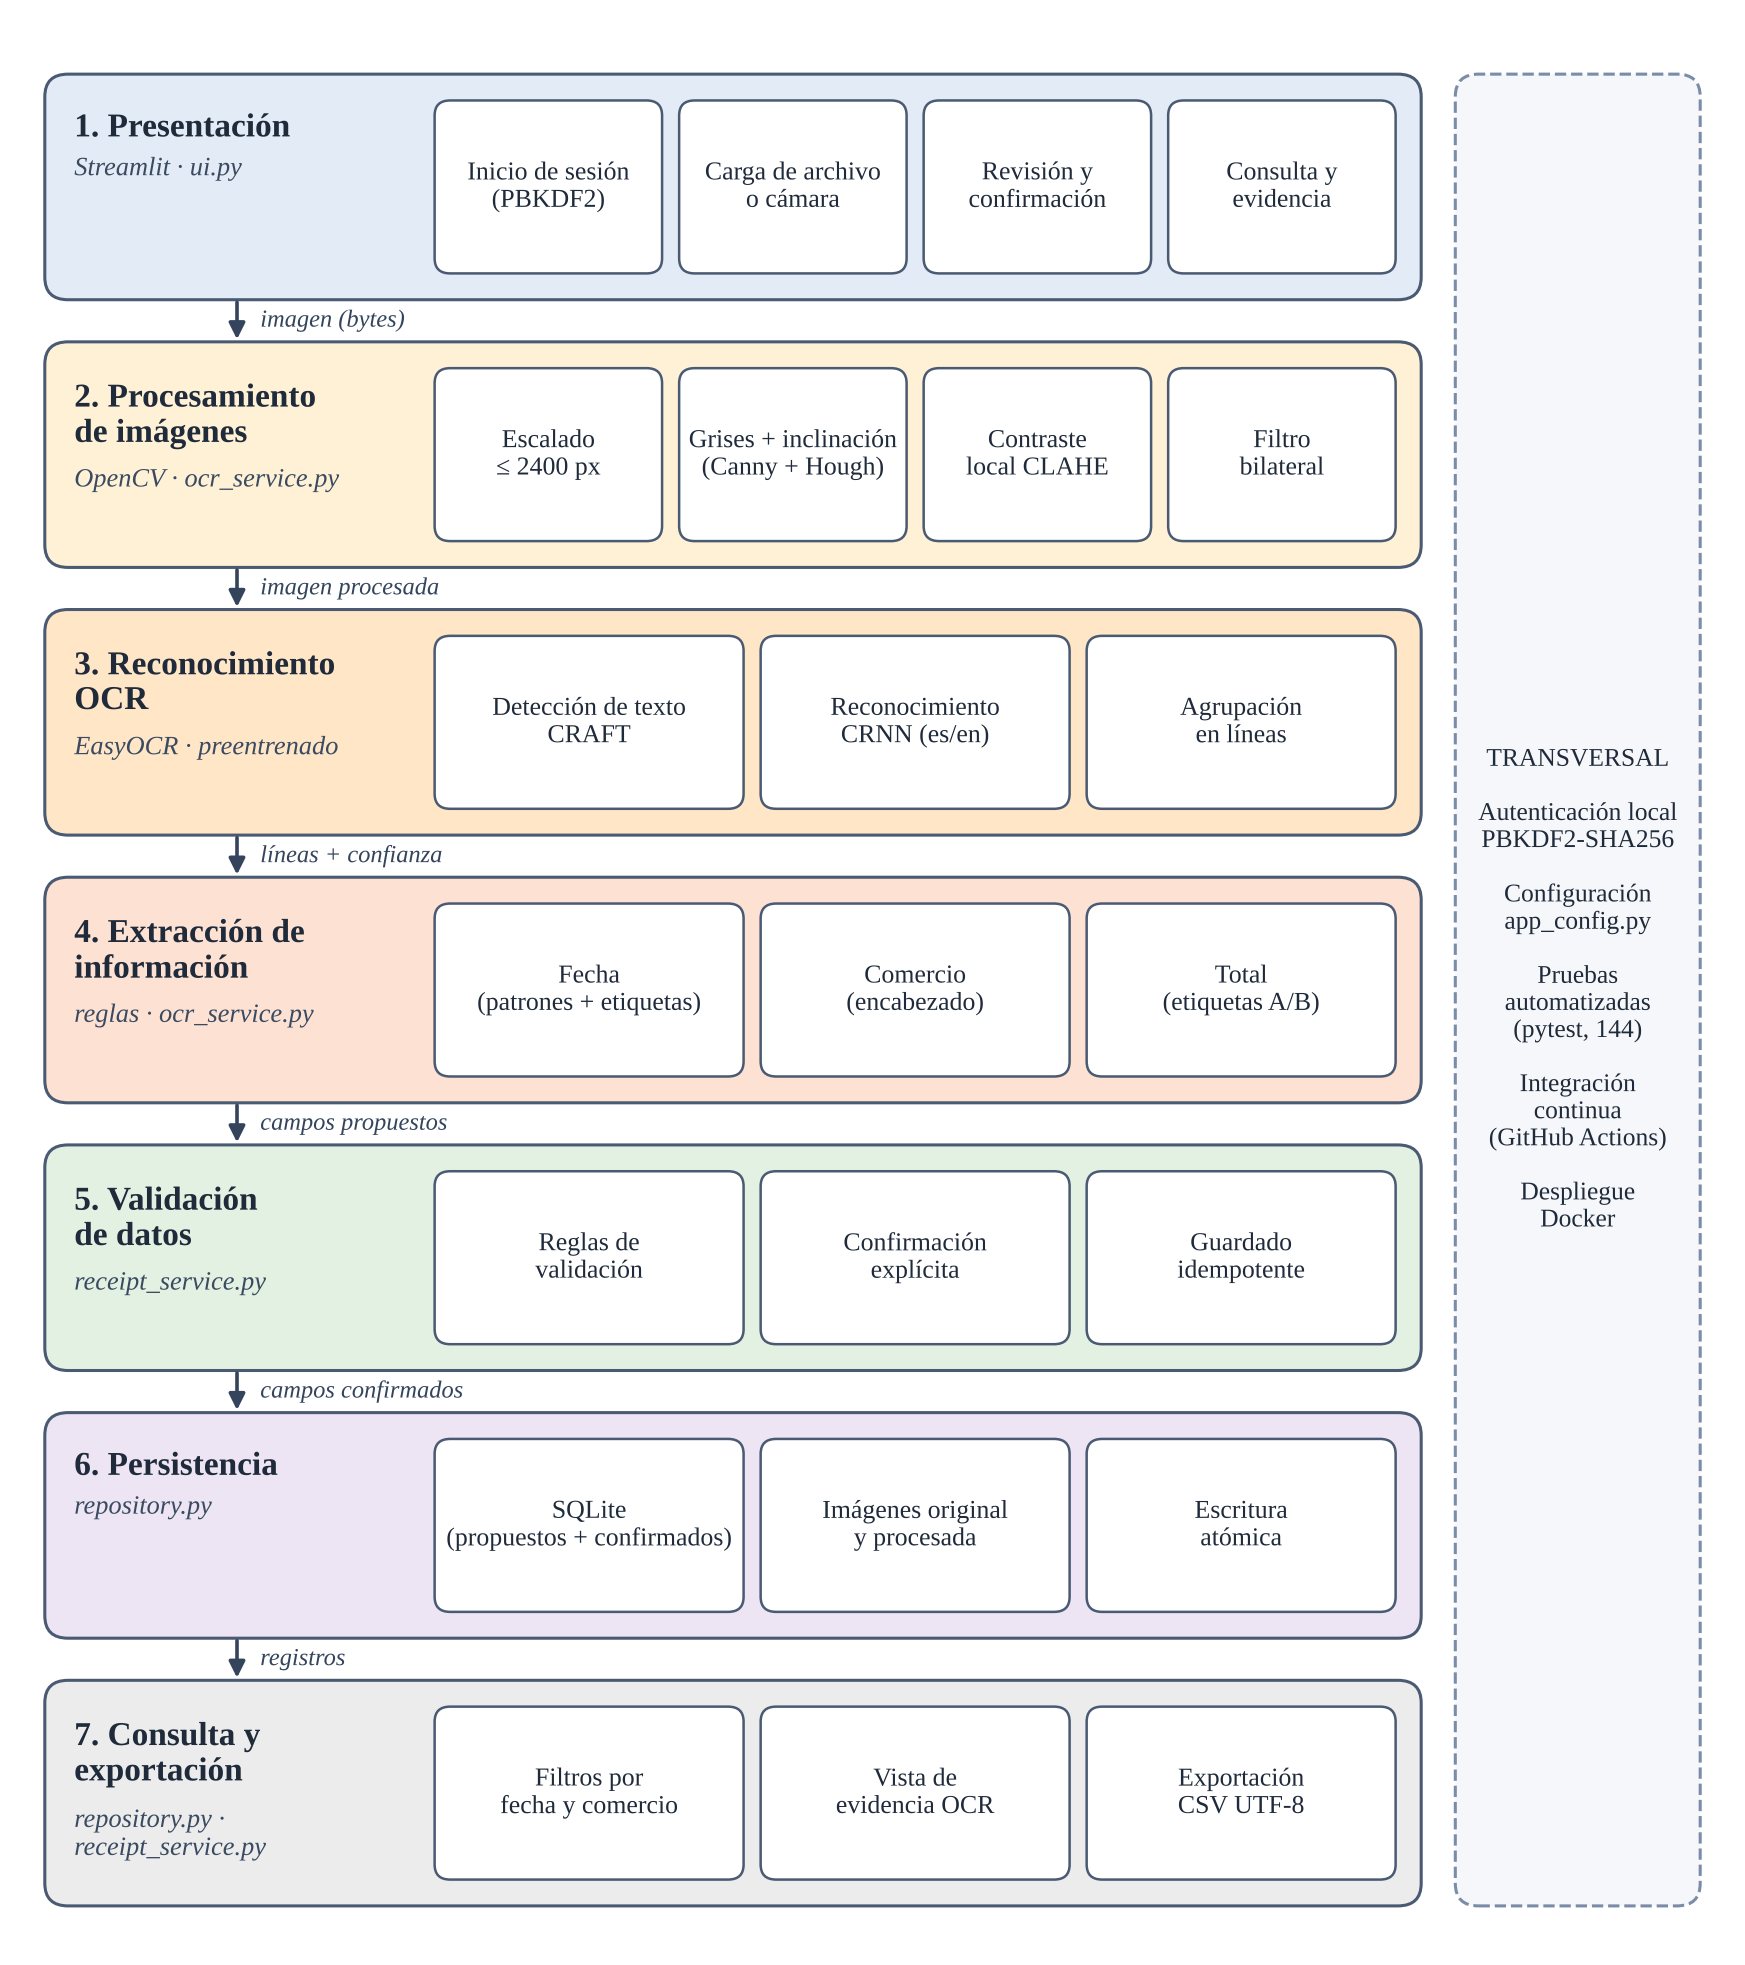
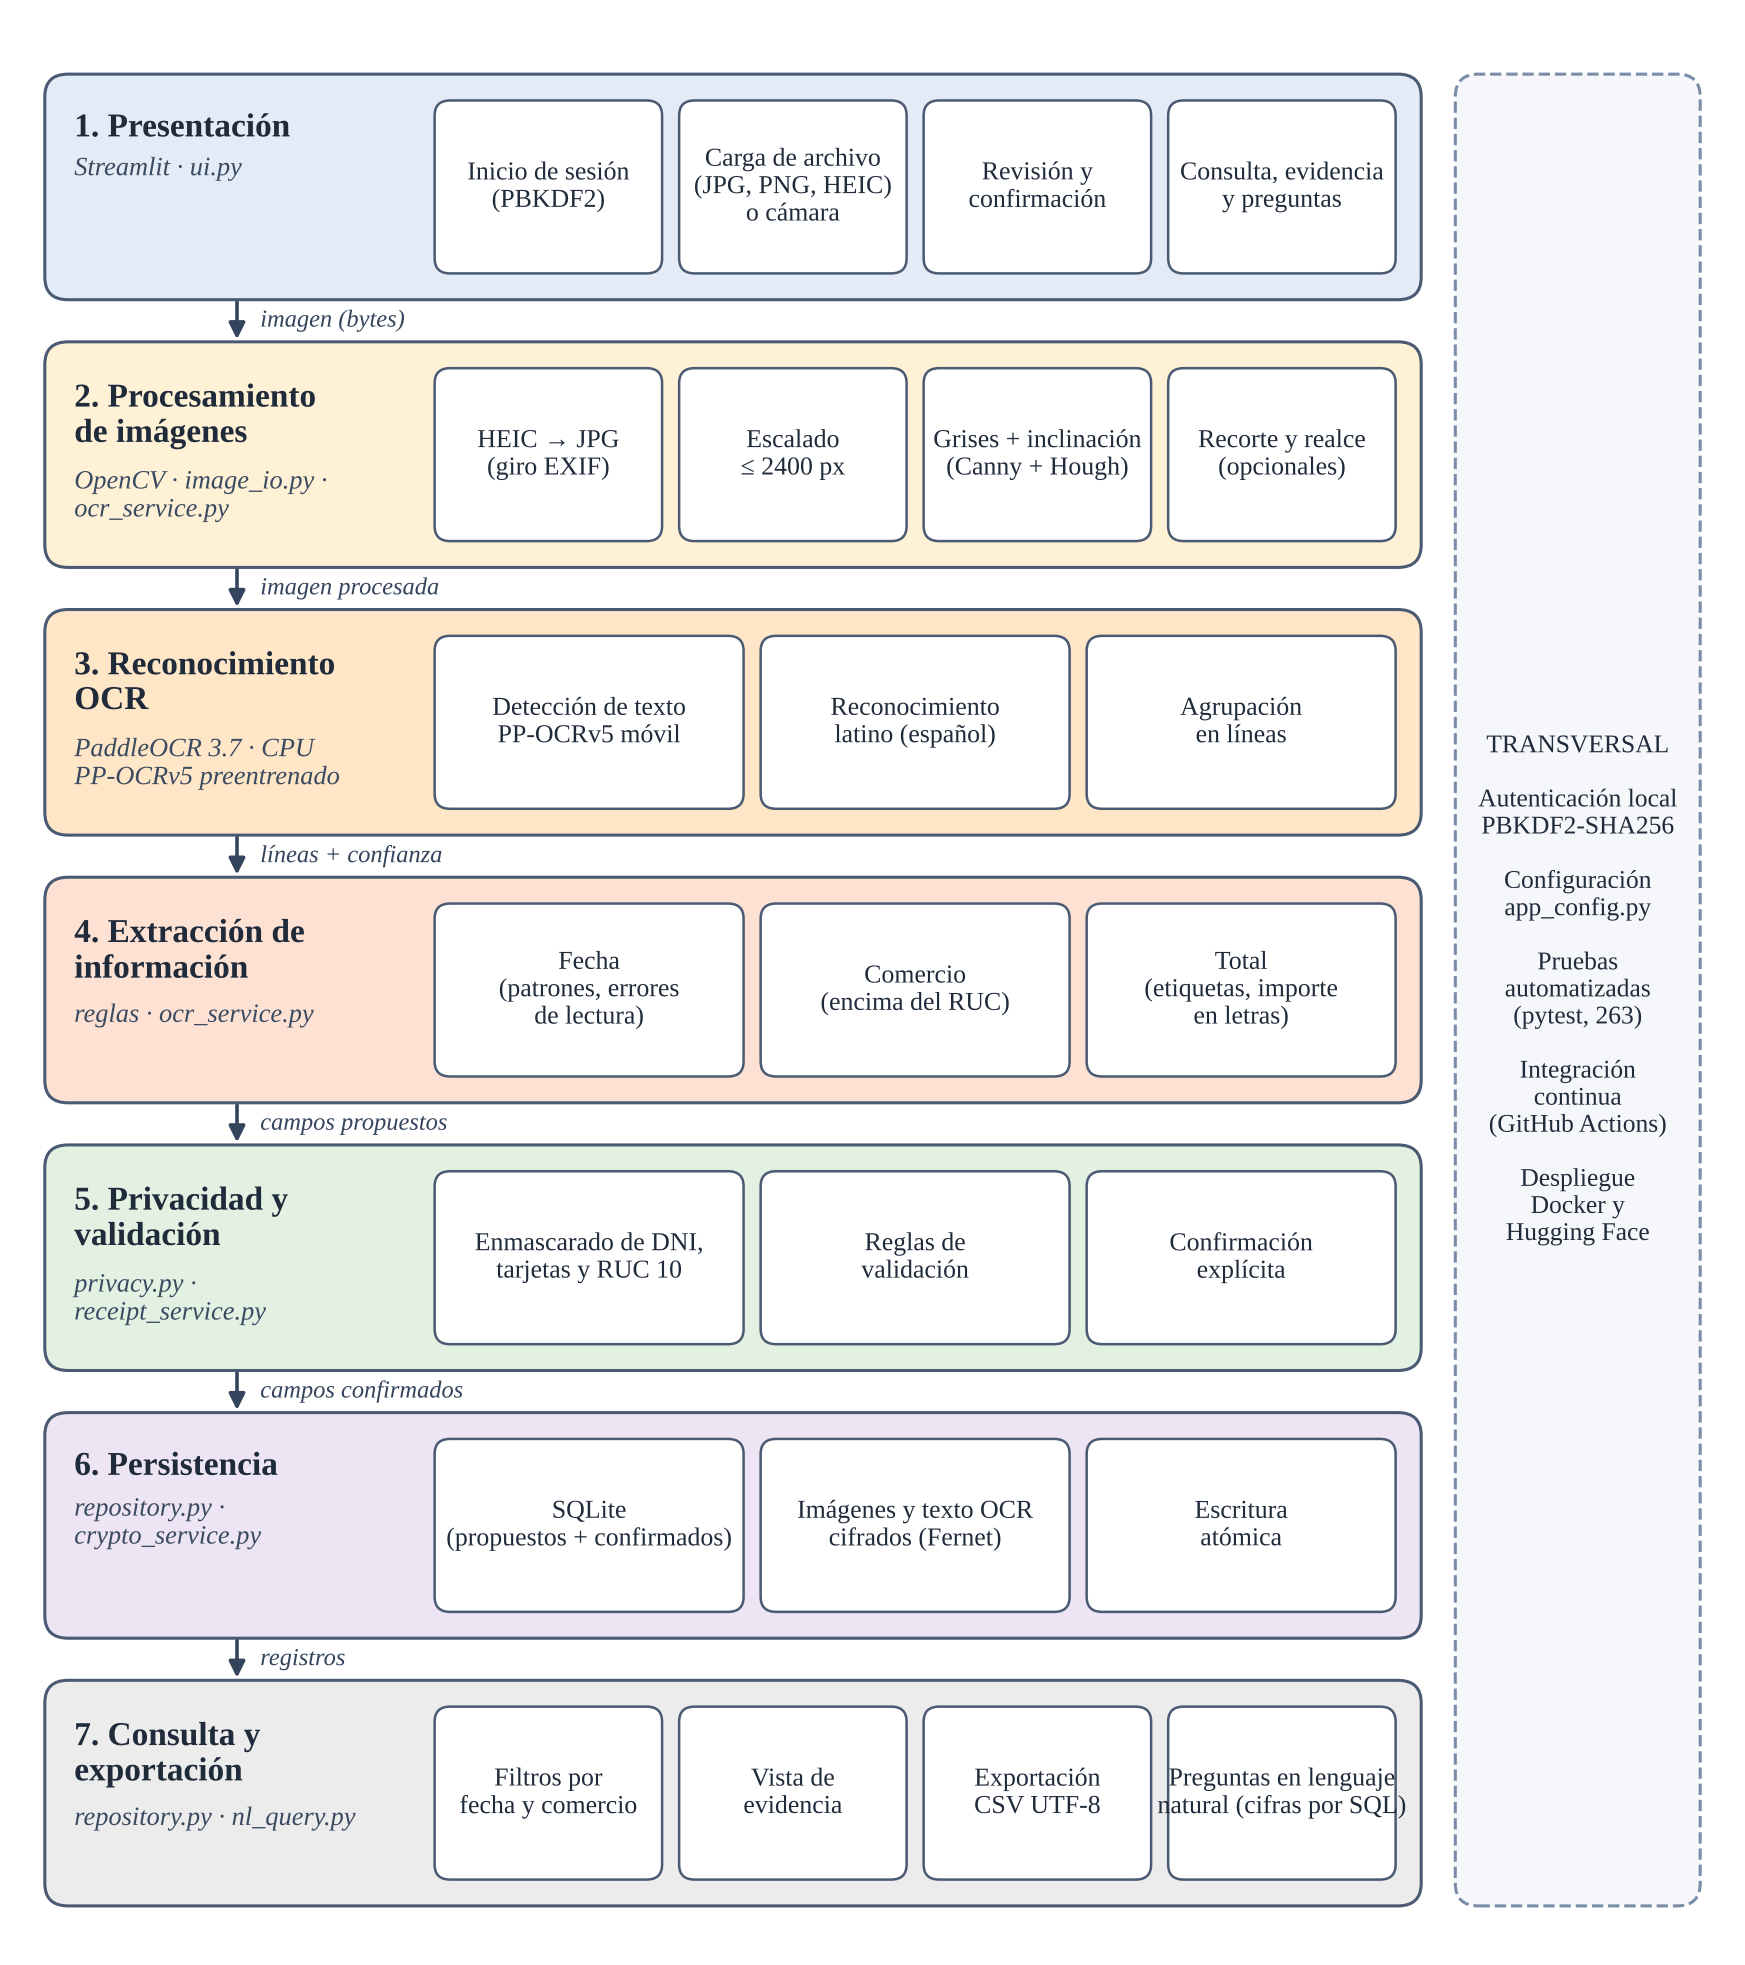
Datos: cinco boletas reales nuevas anonimizadas (R7 a R11); diagramas actualizados a PaddleOCR

diff --git a/experimentos/diagramas/arquitectura.py b/experimentos/diagramas/arquitectura.py
@@ -9,13 +9,13 @@ from matplotlib.patches import FancyArrowPatch, FancyBboxPatch
 
 plt.rcParams["font.family"] = "Liberation Serif"
 CAPAS = [
-    ("1. Presentación", "Streamlit · ui.py", "#E3EBF6", ["Inicio de sesión\n(PBKDF2)", "Carga de archivo\no cámara", "Revisión y\nconfirmación", "Consulta y\nevidencia"]),
-    ("2. Procesamiento\nde imágenes", "OpenCV · ocr_service.py", "#FFF1D6", ["Escalado\n≤ 2400 px", "Grises + inclinación\n(Canny + Hough)", "Contraste\nlocal CLAHE", "Filtro\nbilateral"]),
-    ("3. Reconocimiento\nOCR", "EasyOCR · preentrenado", "#FFE6C7", ["Detección de texto\nCRAFT", "Reconocimiento\nCRNN (es/en)", "Agrupación\nen líneas"]),
-    ("4. Extracción de\ninformación", "reglas · ocr_service.py", "#FDE2D4", ["Fecha\n(patrones + etiquetas)", "Comercio\n(encabezado)", "Total\n(etiquetas A/B)"]),
-    ("5. Validación\nde datos", "receipt_service.py", "#E2F1E2", ["Reglas de\nvalidación", "Confirmación\nexplícita", "Guardado\nidempotente"]),
-    ("6. Persistencia", "repository.py", "#EDE5F4", ["SQLite\n(propuestos + confirmados)", "Imágenes original\ny procesada", "Escritura\natómica"]),
-    ("7. Consulta y\nexportación", "repository.py ·\nreceipt_service.py", "#ECECEC", ["Filtros por\nfecha y comercio", "Vista de\nevidencia OCR", "Exportación\nCSV UTF-8"]),
+    ("1. Presentación", "Streamlit · ui.py", "#E3EBF6", ["Inicio de sesión\n(PBKDF2)", "Carga de archivo\n(JPG, PNG, HEIC)\no cámara", "Revisión y\nconfirmación", "Consulta, evidencia\ny preguntas"]),
+    ("2. Procesamiento\nde imágenes", "OpenCV · image_io.py ·\nocr_service.py", "#FFF1D6", ["HEIC → JPG\n(giro EXIF)", "Escalado\n≤ 2400 px", "Grises + inclinación\n(Canny + Hough)", "Recorte y realce\n(opcionales)"]),
+    ("3. Reconocimiento\nOCR", "PaddleOCR 3.7 · CPU\nPP-OCRv5 preentrenado", "#FFE6C7", ["Detección de texto\nPP-OCRv5 móvil", "Reconocimiento\nlatino (español)", "Agrupación\nen líneas"]),
+    ("4. Extracción de\ninformación", "reglas · ocr_service.py", "#FDE2D4", ["Fecha\n(patrones, errores\nde lectura)", "Comercio\n(encima del RUC)", "Total\n(etiquetas, importe\nen letras)"]),
+    ("5. Privacidad y\nvalidación", "privacy.py ·\nreceipt_service.py", "#E2F1E2", ["Enmascarado de DNI,\ntarjetas y RUC 10", "Reglas de\nvalidación", "Confirmación\nexplícita"]),
+    ("6. Persistencia", "repository.py ·\ncrypto_service.py", "#EDE5F4", ["SQLite\n(propuestos + confirmados)", "Imágenes y texto OCR\ncifrados (Fernet)", "Escritura\natómica"]),
+    ("7. Consulta y\nexportación", "repository.py · nl_query.py", "#ECECEC", ["Filtros por\nfecha y comercio", "Vista de\nevidencia", "Exportación\nCSV UTF-8", "Preguntas en lenguaje\nnatural (cifras por SQL)"]),
 ]
 FLUJOS = ["imagen (bytes)", "imagen procesada", "líneas + confianza", "campos propuestos", "campos confirmados", "registros"]
 
@@ -39,6 +39,6 @@ for i, (titulo, sub, color, comps) in enumerate(CAPAS):
 # Banda transversal
 ax.add_patch(FancyBboxPatch((x0 + ancho + 3, 124 - 7 * alto - 6 * sep), 15, 7 * alto + 6 * sep, boxstyle="round,pad=0.4,rounding_size=1.5", fc="#F5F7FA", ec="#7A8CA8", lw=1.1, ls="--"))
 ax.text(x0 + ancho + 10.5, 124 - (7 * alto + 6 * sep) / 2,
-        "TRANSVERSAL\n\nAutenticación local\nPBKDF2-SHA256\n\nConfiguración\napp_config.py\n\nPruebas\nautomatizadas\n(pytest, 144)\n\nIntegración\ncontinua\n(GitHub Actions)\n\nDespliegue\nDocker",
+        "TRANSVERSAL\n\nAutenticación local\nPBKDF2-SHA256\n\nConfiguración\napp_config.py\n\nPruebas\nautomatizadas\n(pytest, 263)\n\nIntegración\ncontinua\n(GitHub Actions)\n\nDespliegue\nDocker y\nHugging Face",
         fontsize=9.2, ha="center", va="center", color="#1F2A3A")
 fig.savefig(Path(__file__).with_suffix(".png"), bbox_inches="tight", facecolor="white")

diff --git a/experimentos/metricas_complementarias.py b/experimentos/metricas_complementarias.py
@@ -1,4 +1,4 @@
-"""Intervalos de confianza de Wilson (95 %) para las rondas 1 y 2 sobre las boletas reales.
+"""Intervalos de confianza de Wilson (95 %) para las rondas 1, 2 y final sobre las boletas reales.
 
 Uso: python experimentos/metricas_complementarias.py  (lee resultados/detalle_*.csv)
 """
@@ -18,11 +18,20 @@ def wilson(aciertos: int, n: int, z: float = 1.96) -> tuple[float, float]:
 
 
 salida = {}
-for ronda, carpeta in [("ronda1", RES / "ronda1_sin_normalizacion"), ("ronda2", RES)]:
-    for motor in ("easyocr", "tesseract"):
+RONDAS = [("ronda1", RES / "ronda1_sin_normalizacion", ("easyocr", "tesseract")), ("ronda2", RES, ("easyocr", "tesseract")),
+          ("final", RES / "final", ("easyocr", "tesseract", "rapidocr", "paddleocr"))]
+for ronda, carpeta, motores in RONDAS:
+    for motor in motores:
+        if not (carpeta / f"detalle_{motor}.csv").exists():
+            continue
         filas = list(csv.DictReader((carpeta / f"detalle_{motor}.csv").open(encoding="utf-8")))
         n = len(filas)
         campos = sum(int(f["fecha_ok"]) + int(f["comercio_ok"]) + int(f["total_ok"]) for f in filas)
-        salida[f"{ronda}_{motor}"] = {"campos_correctos": campos, "campos_total": 3 * n, "ic95_global": wilson(campos, 3 * n)}
+        por_campo = {c: int(sum(int(f[f"{c}_ok"]) for f in filas)) for c in ("fecha", "comercio", "total")}
+        salida[f"{ronda}_{motor}"] = {
+            "campos_correctos": campos, "campos_total": 3 * n, "ic95_global": wilson(campos, 3 * n),
+            "ic95_por_campo": {c: wilson(v, n) for c, v in por_campo.items()},
+            "boletas_completas": int(sum(int(f["fecha_ok"]) + int(f["comercio_ok"]) + int(f["total_ok"]) == 3 for f in filas)), "n": n,
+        }
 (RES / "metricas_complementarias.json").write_text(json.dumps(salida, ensure_ascii=False, indent=2), encoding="utf-8")
 print(json.dumps(salida, ensure_ascii=False))
